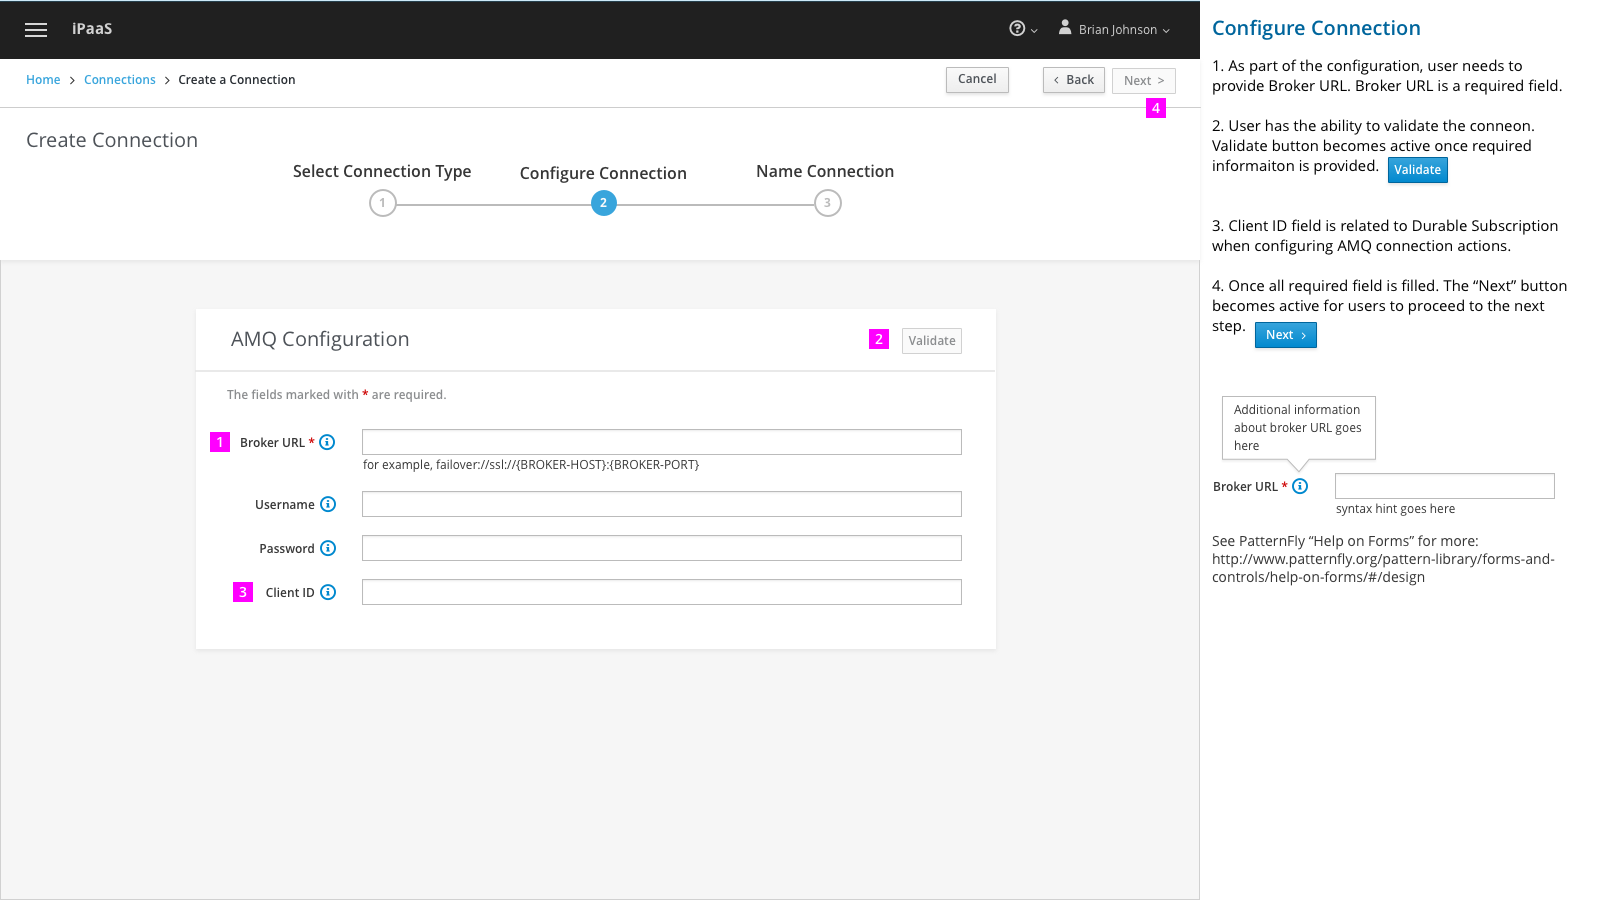
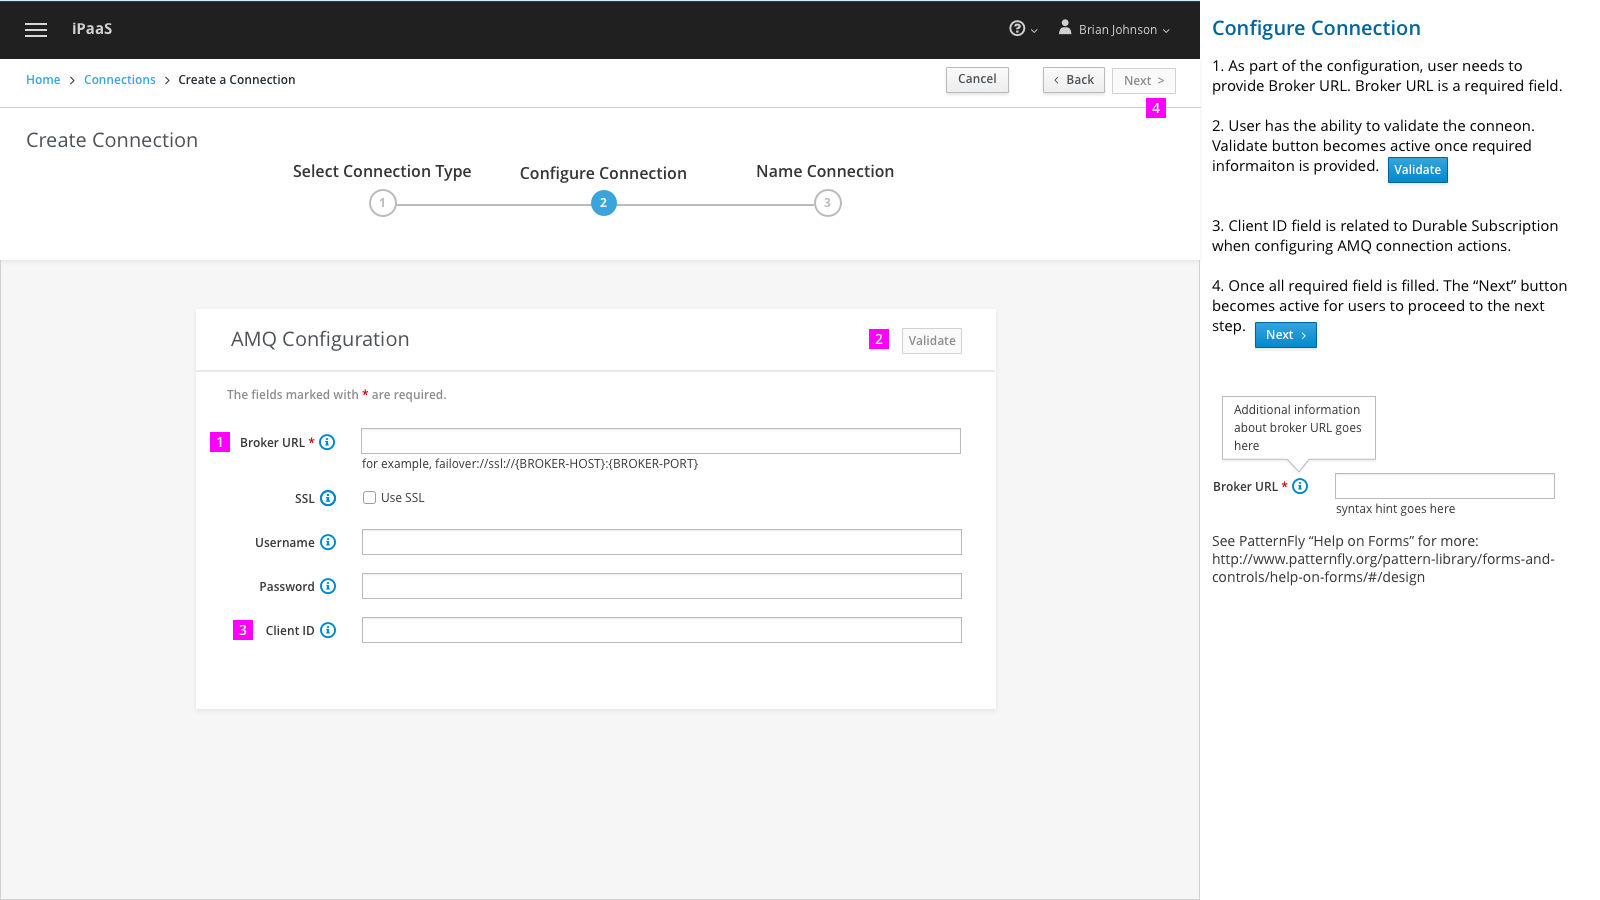
include checkbox for use ssl option

Changed region(s): [[0.25, 0.6222, 0.5938, 0.6533], [0.125, 0.5911, 0.2188, 0.7156], [0.1875, 0.4978, 0.4375, 0.56]]

diff --git a/ux/designs/amq/amq.md b/ux/designs/amq/amq.md
@@ -28,7 +28,7 @@ This design covers the following workflows:
 
 ![Image of configure connection ssl](img/AMQ_configureConnection-ssl.png)
 
-1.	If users type in a Broker URL with a “ssl:” substring, display the security settings section.
+1.	If users check "Use SSL" option, display the security settings section.
 
 2.	“Skip Certificate Check” is a dropdown menu with Enable/Disable option.
 
